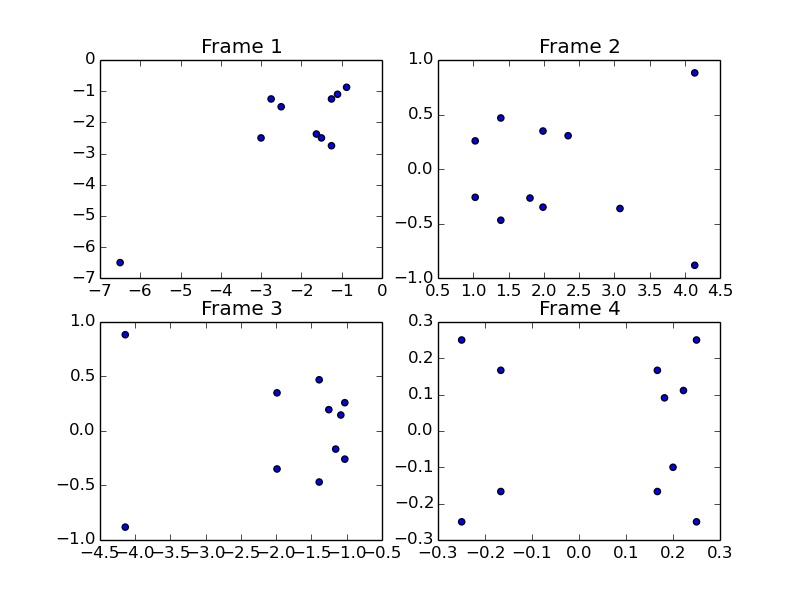
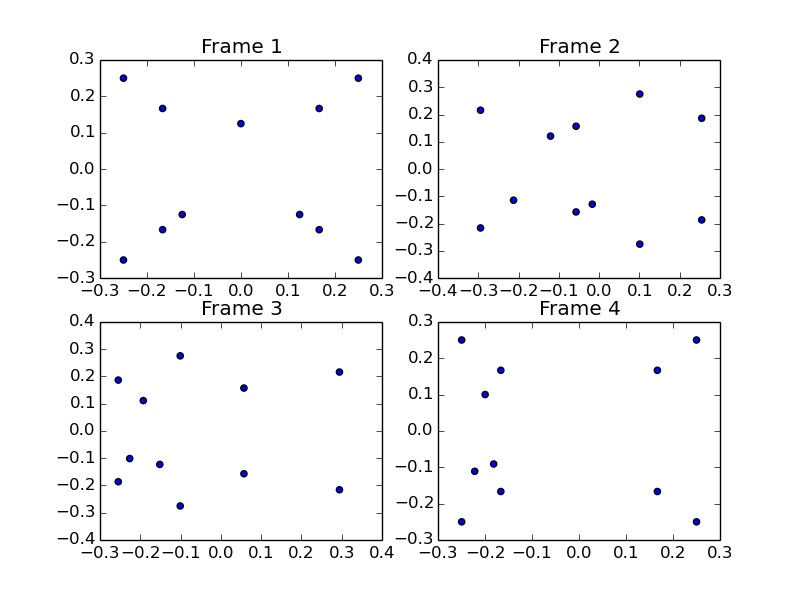
Perspective and Orthographic projection of 11 points complete

diff --git a/Assignment 3/cameraProjection.py b/Assignment 3/cameraProjection.py
@@ -71,9 +71,9 @@ def rotatePointAlongYaxis(pointQuat,theta):
 camFrame2Quat = [0,0,0,0]
 camFrame3Quat = [0,0,0,0]
 camFrame4Quat = [0,0,0,0]
-camFrame2Quat = rotatePointAlongYaxis(camFrame1Quat,30)
-camFrame3Quat = rotatePointAlongYaxis(camFrame2Quat,30)
-camFrame4Quat = rotatePointAlongYaxis(camFrame3Quat,30)
+camFrame2Quat = rotatePointAlongYaxis(camFrame1Quat,-30)
+camFrame3Quat = rotatePointAlongYaxis(camFrame2Quat,-30)
+camFrame4Quat = rotatePointAlongYaxis(camFrame3Quat,-30)
 
 print "FRAME1 : ", camFrame1Quat
 print "Point after rotation1 - FRAME2 : ", camFrame2Quat
@@ -99,25 +99,25 @@ def quaternionToRotation(quat):
 
 quatIdentity = [0,1,1,1]
 rotationQuat1 = [0,1,1,1]
-rotation1_matrix = np.zeros([3,3])
-rotation1_matrix = quaternionToRotation(rotationQuat1)
-print "\nrotation matrix 1 :",rotation1_matrix
+rotation1_matrix = np.identity(3)
+#rotation1_matrix = quaternionToRotation(rotationQuat1)
+print "\nrotation matrix 1 :\n",rotation1_matrix
 rotationQuat2 = [math.cos((math.radians(30))/2), 0, math.sin((math.radians(30))/2),0]
 rotation2_matrix = np.zeros([3,3])
 rotation2_matrix = quaternionToRotation(rotationQuat2)
-print "\nrotation matrix 2 :",rotation2_matrix
+print "\nrotation matrix 2 :\n",rotation2_matrix
 
  
 rotationQuat3 = [math.cos((math.radians(60))/2), 0, math.sin((math.radians(60))/2),0]
 rotation3_matrix = np.zeros([3,3])
 rotation3_matrix = quaternionToRotation(rotationQuat3)
-print "\nrotation matrix 1 :",rotation3_matrix
+print "\nrotation matrix 3 :\n",rotation3_matrix
 
 
 rotationQuat4 = [math.cos((math.radians(90))/2), 0, math.sin((math.radians(90))/2),0]
 rotation4_matrix = np.zeros([3,3])
 rotation4_matrix = quaternionToRotation(rotationQuat4)
-print "\nrotation matrix 1 :",rotation4_matrix
+print "\nrotation matrix 4 :\n",rotation4_matrix
 
  
 rotationMatrices = [rotation1_matrix,rotation2_matrix,rotation3_matrix,rotation4_matrix]
@@ -166,14 +166,17 @@ def pointPerspectiveProjection(point,cameraQuat,rotationMatrix):
         Kf[1][0] = rotationMatrix[2,1]
         Kf[2][0] = rotationMatrix[2,2]
 	
-	
-	U_matrixForm = (focal_length*beta_u*np.dot((Sp_minus_Tf).transpose(),If))/np.dot((Sp_minus_Tf).transpose(),Kf)
-	Ufp = U_matrixForm[0][0]
+	numerator = (focal_length*beta_u*np.dot((Sp_minus_Tf).transpose(),If))
+	denominator = np.dot((Sp_minus_Tf).transpose(),Kf)
+		
+	Ufp= numerator/denominator
+	#Ufp = U_matrixForm[0][0]
 	Ufp = Ufp + u_o
 	
-
-	V_matrixForm = (focal_length*beta_v*np.dot((Sp_minus_Tf).transpose(),Jf))/np.dot((Sp_minus_Tf).transpose(),Kf)
-	Vfp = V_matrixForm[0][0]
+	numerator = (focal_length*beta_v*np.dot((Sp_minus_Tf).transpose(),Jf))
+	denominator = np.dot((Sp_minus_Tf).transpose(),Kf)
+	Vfp = numerator/denominator 
+	#Vfp = V_matrixForm[0][0]
         Vfp = Vfp + v_o
 
 
@@ -234,7 +237,7 @@ def pointOrthographicProjection(point,cameraQuat,rotationMatrix):
         Ufp = Ufp + u_o
 
 
-        V_matrixForm = (focal_length*beta_v*np.dot((Sp_minus_Tf).transpose(),Jf))/np.dot((Sp_minus_Tf).transpose(),Kf)
+        V_matrixForm = (focal_length*beta_v*np.dot((Sp_minus_Tf).transpose(),Jf))
         Vfp = V_matrixForm[0][0]
         Vfp = Vfp + v_o
 
@@ -271,55 +274,115 @@ def getProjectionForAllPoints(pts,cameraFrameQuat,rotationMatrices):
 	return projectedModel
 
 print "Projections of all points w.r.t. fram1 : ",getProjectionForAllPoints(pts,camFrameQuaternions,rotationMatrices)
-print "\nProjected Model [0] : ",projectedModel[0][0][0]
+#print "\nProjected Model [0] : ",projectedModel[0][0][0]
+                                                 
 
-def plotSamplePoints(listxy,figName):
-	x1 = []
-	y1 = []
-	x2 = []
-	y2 = []
-	x3 = []
-	y3 = []
-	x4 = []
-	y4 = []
-	
-	for i in range(len(listxy[0])):
-		x1.append(listxy[0][i][0])
-	        y1.append(listxy[0][i][1])	
-	
-	plt.subplot(2,2,1)
-	plt.scatter(x1,y1)
-	plt.title('Frame 1')
-
-#	plt.plot(x1,y1)
-
-	for i in range(len(listxy[1])):
-                x2.append(listxy[1][i][0])
-                y2.append(listxy[1][i][1])    
-	plt.subplot(2,2,2)
-        plt.scatter(x2,y2)
-	plt.title('Frame 2')
-#	plt.plot(x2,y2)
-
-	for i in range(len(listxy[2])):
-                x3.append(listxy[2][i][0])
-                y3.append(listxy[2][i][1])
-        plt.subplot(2,2,3)
-        plt.scatter(x3,y3)
-	plt.title('Frame 3')
-
-	for i in range(len(listxy[3])):
-                x4.append(listxy[3][i][0])
-                y4.append(listxy[3][i][1])
-        plt.subplot(2,2,4)
-        plt.scatter(x4,y4)
-	plt.title('Frame 4')
-	name = figName + '.jpg'
-	plt.savefig(name)                                                         
-	
-	
 projectedModelPerspective = [projectedModel[0],projectedModel[1],projectedModel[2],projectedModel[3]]
 projectedModelOrthogonal = [projectedModel[4],projectedModel[5],projectedModel[6],projectedModel[7]]
-print "\nprojectedModelPerspective[0]",projectedModelOrthogonal[0]
-plotSamplePoints(projectedModelPerspective,'Perspective')
-plotSamplePoints(projectedModelOrthogonal,'Orthogonal')
+#print "\nprojectedModelPerspective[0]",projectedModelOrthogonal[0]
+#plotSamplePoints(projectedModelPerspective,'Perspective')
+
+
+import matplotlib.pyplot as plt1
+
+x5 = []
+y5 = []
+x6 = []
+y6 = []
+x7 = []
+y7 = []
+x8 = []
+y8 = []
+
+## plotting orthographic projection
+for i in range(len(projectedModel[4])):
+        x5.append(projectedModel[4][i][0])
+        y5.append(projectedModel[4][i][1])
+
+plt1.subplot(221)
+print "x5 :\n ",x5
+print "y5 :\n ",y5
+plt1.scatter(x5,y5)
+plt1.title('Frame 1')
+
+#       plt.plot(x1,y1)
+
+for i in range(len(projectedModel[5])):
+        x6.append(projectedModel[5][i][0])
+        y6.append(projectedModel[5][i][1])
+
+plt1.subplot(222)
+plt1.scatter(x6,y6)
+plt1.title('Frame 2')
+#       plt.plot(x2,y2)
+
+for i in range(len(projectedModel[6])):
+        x7.append(projectedModel[6][i][0])
+        y7.append(projectedModel[6][i][1])
+plt1.subplot(223)
+plt1.scatter(x7,y7)
+plt1.title('Frame 3')
+
+for i in range(len(projectedModel[7])):
+        x8.append(projectedModel[7][i][0])
+        y8.append(projectedModel[7][i][1])
+plt1.subplot(224)
+plt1.scatter(x8,y8)
+plt1.title('Frame 4')
+name = 'Orthographic.jpg'
+plt1.savefig(name)
+plt1.show()
+
+
+
+
+x1 = []
+y1 = []
+x2 = []
+y2 = []
+x3 = []
+y3 = []
+x4 = []
+y4 = []
+
+## plotting perspective projection
+
+for i in range(len(projectedModel[0])):
+	x1.append(projectedModel[0][i][0])
+	y1.append(projectedModel[0][i][1])
+
+plt.subplot(2,2,1)
+plt.scatter(x1,y1)
+plt.title('Frame 1')
+
+#       plt.plot(x1,y1)
+
+for i in range(len(projectedModel[1])):
+	x2.append(projectedModel[1][i][0])
+	y2.append(projectedModel[1][i][1])
+
+plt.subplot(2,2,2)
+plt.scatter(x2,y2)
+plt.title('Frame 2')
+#       plt.plot(x2,y2)
+
+for i in range(len(projectedModel[2])):
+	x3.append(projectedModel[2][i][0])
+	y3.append(projectedModel[2][i][1])
+plt.subplot(2,2,3)
+plt.scatter(x3,y3)
+plt.title('Frame 3')
+
+for i in range(len(projectedModel[3])):
+	x4.append(projectedModel[3][i][0])
+	y4.append(projectedModel[3][i][1])
+plt.subplot(2,2,4)
+plt.scatter(x4,y4)
+plt.title('Frame 4')
+name = 'Perspective.jpg'
+plt.savefig(name)
+plt.show()
+#plotSamplePoints(projectedModelOrthogonal,'Orthographic')
+
+
+
